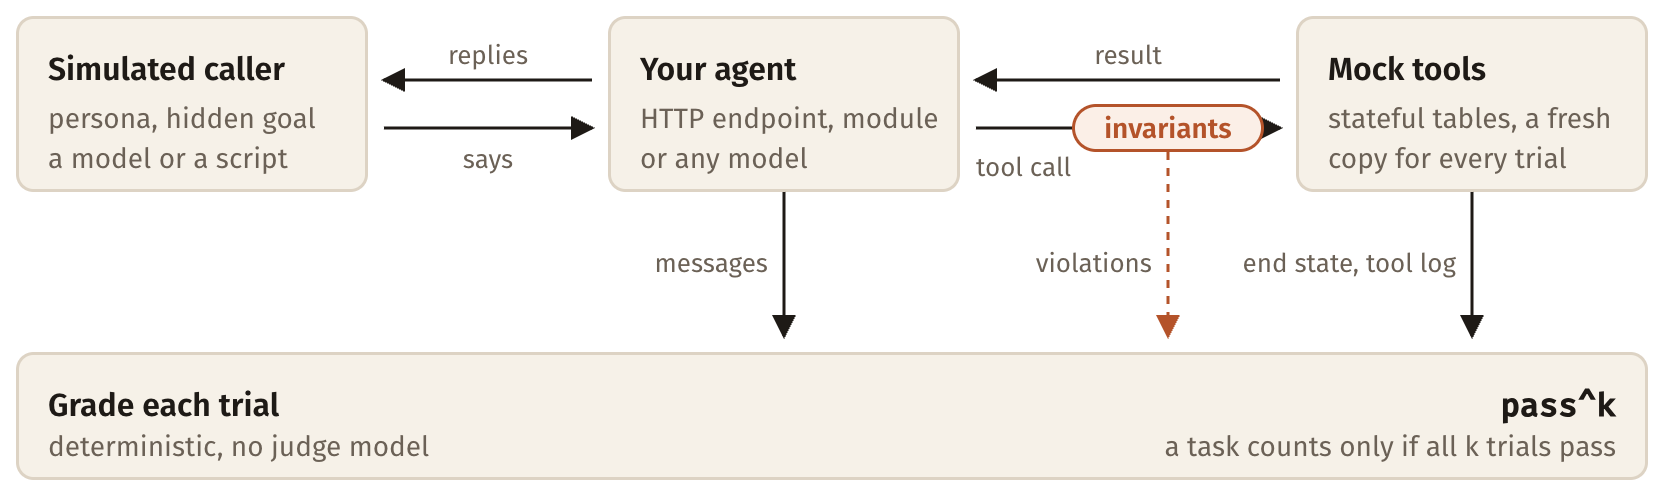
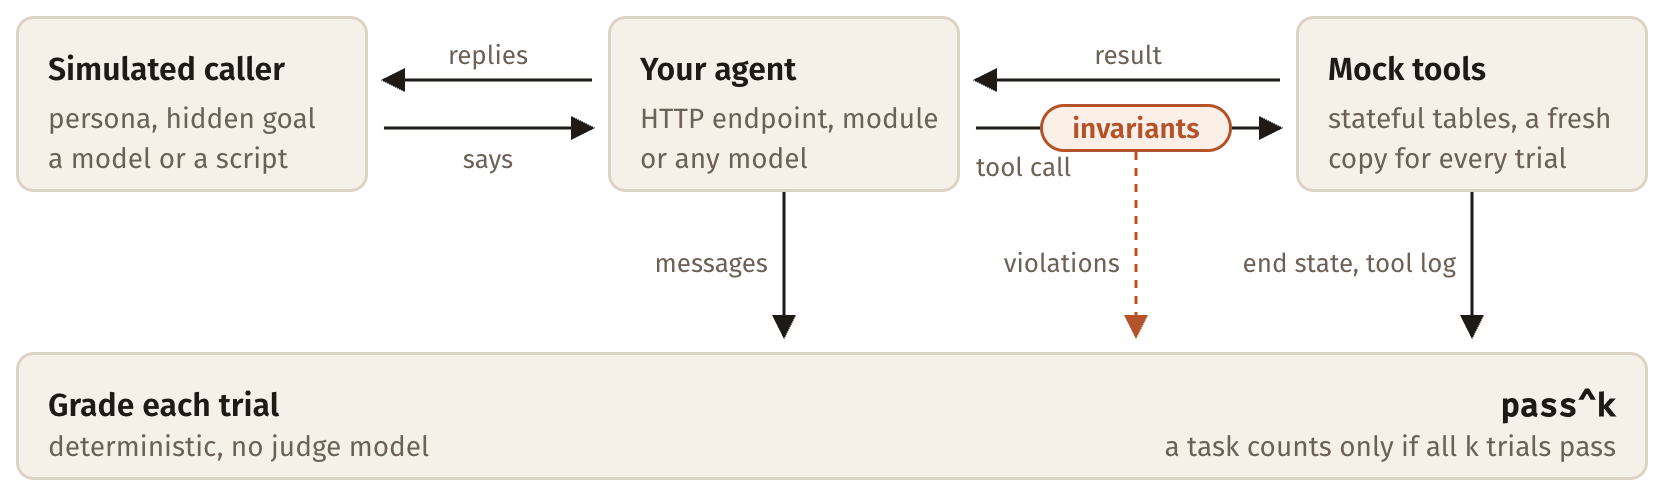
docs: readme pictures for the report and the trial diagram, roomier diagram, gif with fitted lines

Changed region(s): [[0.625, 0.2117, 0.7812, 0.3024], [0.5938, 0.5141, 0.6875, 0.5746], [0.6562, 0.6351, 0.7188, 0.6653]]

diff --git a/assets/trial.html b/assets/trial.html
@@ -72,14 +72,14 @@ svg{display:block;font-family:"Fira Sans",sans-serif;-webkit-font-smoothing:anti
   <text class="label" x="564" y="32" text-anchor="middle">result</text>
   <line class="wire" x1="488" y1="64" x2="640" y2="64" marker-end="url(#a)"/>
   <text class="label" x="488" y="88">tool call</text>
-  <rect class="check" x="536.75" y="52.75" width="94.5" height="22.5" rx="11.25"/>
-  <text class="check-text" x="584" y="69" text-anchor="middle">invariants</text>
+  <rect class="check" x="520.75" y="52.75" width="94.5" height="22.5" rx="11.25"/>
+  <text class="check-text" x="568" y="69" text-anchor="middle">invariants</text>
 
   <!-- Row 2: what the grade reads -->
   <line class="wire" x1="392" y1="96" x2="392" y2="168" marker-end="url(#a)"/>
   <text class="label" x="384" y="136" text-anchor="end">messages</text>
-  <line class="tap" x1="584" y1="76" x2="584" y2="168" marker-end="url(#t)"/>
-  <text class="label" x="576" y="136" text-anchor="end">violations</text>
+  <line class="tap" x1="568" y1="76" x2="568" y2="168" marker-end="url(#t)"/>
+  <text class="label" x="560" y="136" text-anchor="end">violations</text>
   <line class="wire" x1="736" y1="96" x2="736" y2="168" marker-end="url(#a)"/>
   <text class="label" x="728" y="136" text-anchor="end">end state, tool log</text>
 

diff --git a/README.md b/README.md
@@ -37,7 +37,10 @@ Three failures from the freight example, and why a judge reading the transcript 
 
 Every failing trial in the HTML report shows the checks, the changes to the records, and the transcript with the offending tool call marked:
 
-![The HTML report on a failing trial of the naive agent, with the offending tool call marked](assets/report.png)
+<picture>
+  <source media="(prefers-color-scheme: dark)" srcset="assets/report-dark.png">
+  <img src="assets/report.png" width="800" alt="The HTML report on a failing trial of the naive agent, with the offending tool call marked">
+</picture>
 
 ## From your customer's docs to a red/green report
 
@@ -129,6 +132,11 @@ This repository is also a Claude Code plugin marketplace. The `sandtable` plugin
 A `failure-triager` subagent reads the failing trials of a large run outside the main conversation. The skills ask before any command that calls a model. They are plain `SKILL.md` files in [`plugin/skills`](plugin/skills), so other coding agents that read Agent Skills can use them too.
 
 ## How it works
+
+<picture>
+  <source media="(prefers-color-scheme: dark)" srcset="assets/trial-dark.png">
+  <img src="assets/trial.png" width="832" alt="One trial: a simulated caller talks to your agent, every tool call is checked against the invariants, and the trial is graded on the agent's messages, the violations and the end state, with no judge model">
+</picture>
 
 1. **World.** Tables of records (carriers, loads, patients), seeded with fictional rows. Every trial starts from a fresh copy.
 2. **Tools.** The customer's API, declared as operations on the world, with the checks the real API would enforce. Writes are atomic.
